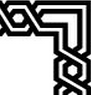
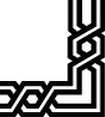
ДЗ 4 (рамка частями) - готово

diff --git a/HOME/DIV_FRAME/frame_ch.html b/HOME/DIV_FRAME/frame_ch.html
@@ -9,7 +9,7 @@
         * {
             margin: 0;
             padding: 0;
-            /*--box-sizing: border-box;*/
+            
         }
     </style>
 </head>
@@ -22,23 +22,24 @@
                     <div style="background: url(ramka4.png) repeat-x right top">
                         <div style="background: url(ramka5.png) no-repeat left top ">
                             <div style="background: url(ramka6.png) no-repeat left bottom ">
-                                <div style="background: url(ramka7.png) no-repeat right top " 
-                                    style="background: url(ramka8.png) no-repeat left top ">
-                                    <div style="text-align: center; padding: 35px;line-height:200%; font-size:25px">
-                                        Бериллий - элемент главной
-                                        подгруппы
-                                        второй группы, второго периода
-                                        периодической системы химических элементов Д.И.Менделеева, с атомным
-                                        номером 4. Обозначается символом Be
-                                        (лат.Beryllium). Высокотоксичный
-                                        элемент. Простое вещество бериллий -
-                                        относительно твёрдый металл светло-серого цвета.
+                                <div style="background: url(ramka7.png) no-repeat right top ">
+                                    <div style="background: url(ramka8.png) no-repeat right bottom ">
+                                        <div style="text-align: center; padding: 35px;line-height:200%; font-size:25px">
+                                            Бериллий - элемент главной
+                                            подгруппы
+                                            второй группы, второго периода
+                                            периодической системы химических элементов Д.И.Менделеева, с атомным
+                                            номером 4. Обозначается символом Be
+                                            (лат.Beryllium). Высокотоксичный
+                                            элемент. Простое вещество бериллий -
+                                            относительно твёрдый металл светло-серого цвета.
+                                        </div>
+
+
+
+
+
                                     </div>
-
-
-
-
-
                                 </div>
                             </div>
                         </div>
@@ -47,7 +48,7 @@
             </div>
         </div>
     </div>
-    </div>
+    
 </body>
 
 </html>
